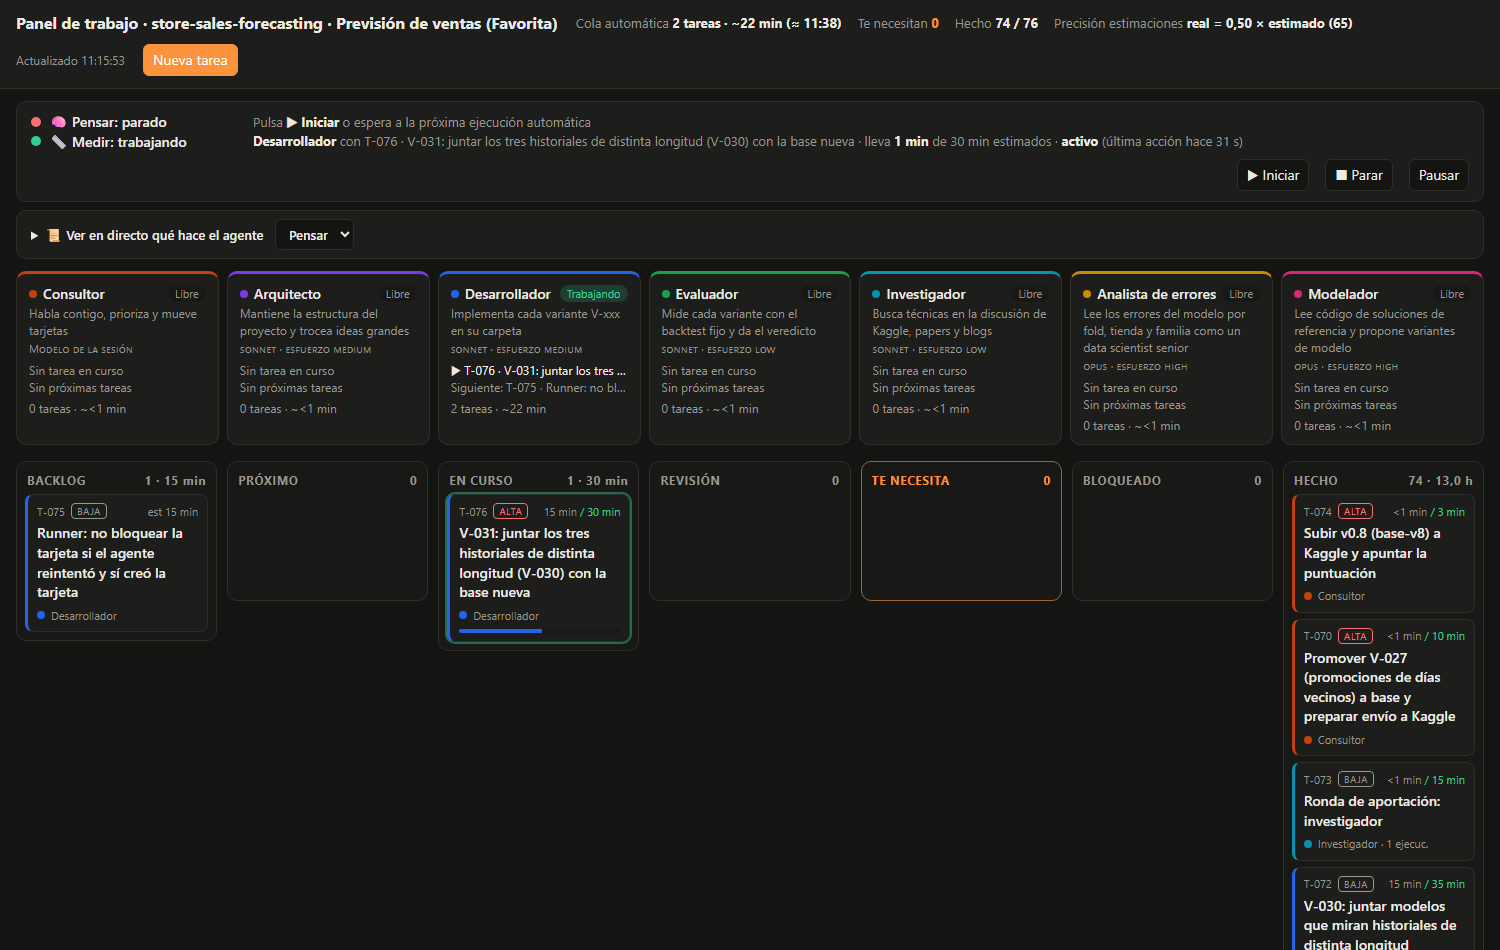
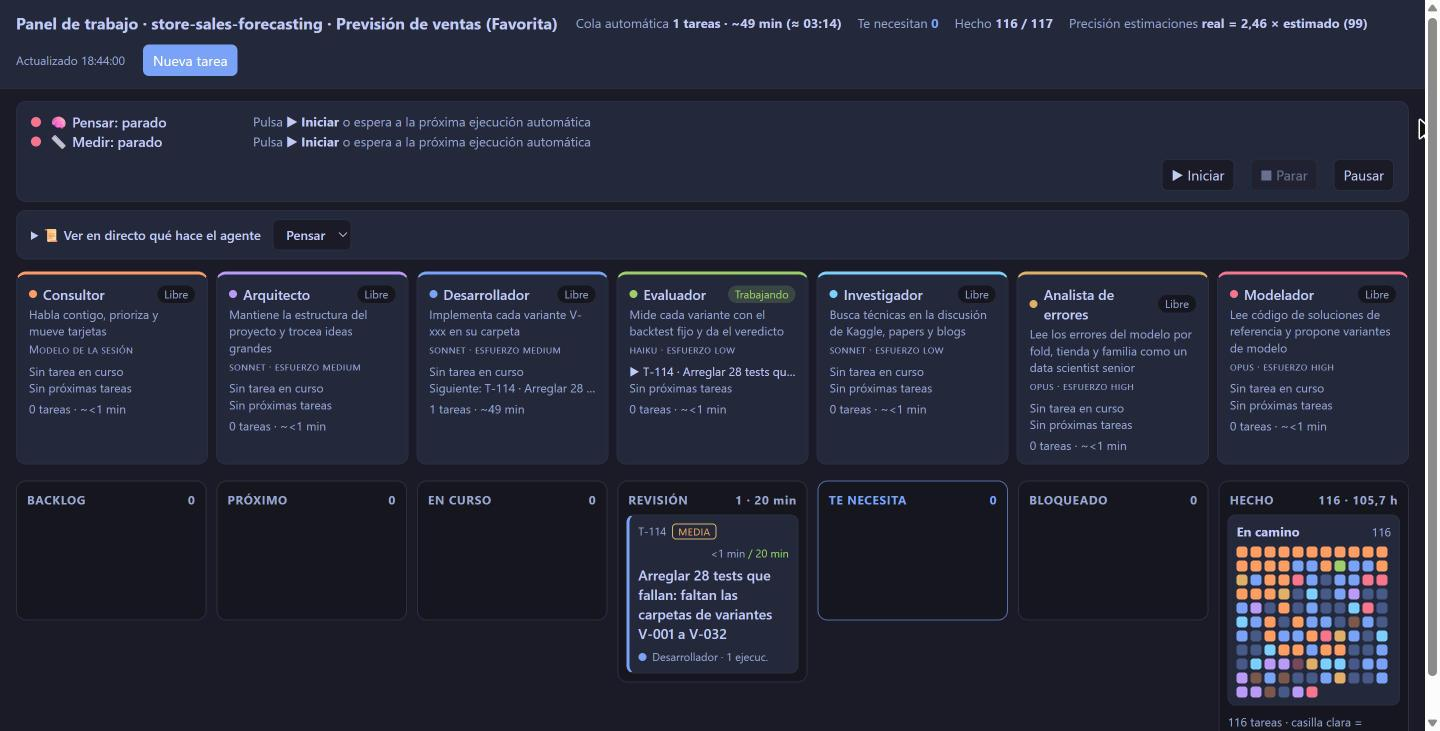
style: switch panel and agent colors to the Tokyo Night palette

diff --git a/board/panel.html b/board/panel.html
@@ -5,8 +5,9 @@
 <meta name="viewport" content="width=device-width,initial-scale=1">
 <title>Panel de trabajo</title>
 <style>
-:root{--bg:#f6f5f2;--panel:#fff;--sunk:#efede8;--ink:#1d1d1b;--muted:#77756f;--line:#e2e0da;--acc:#c2410c;--ok:#059669;--warn:#b45309;--bad:#dc2626}
-@media (prefers-color-scheme:dark){:root{--bg:#141413;--panel:#1d1d1b;--sunk:#181817;--ink:#eceae4;--muted:#9a978f;--line:#2f2e2a;--acc:#fb923c;--ok:#34d399;--warn:#fbbf24;--bad:#f87171}}
+/* Paleta Tokyo Night Day / Tokyo Night (github.com/folke/tokyonight.nvim) */
+:root{--bg:#e1e2e7;--panel:#e9e9ed;--sunk:#d0d5e3;--ink:#3760bf;--muted:#6172b0;--line:#c4c8da;--acc:#2e7de9;--ok:#587539;--warn:#8c6c3e;--bad:#f52a65}
+@media (prefers-color-scheme:dark){:root{--bg:#1a1b26;--panel:#24283b;--sunk:#16161e;--ink:#c0caf5;--muted:#9aa5ce;--line:#292e42;--acc:#7aa2f7;--ok:#9ece6a;--warn:#e0af68;--bad:#f7768e}}
 *{box-sizing:border-box}
 body{margin:0;font:14px/1.4 system-ui,-apple-system,sans-serif;background:var(--bg);color:var(--ink);min-height:100vh;display:flex;flex-direction:column}
 button,select,input,textarea{font:inherit;color:inherit;background:var(--bg);border:1px solid var(--line);border-radius:6px;padding:5px 9px}

diff --git a/README.md b/README.md
@@ -106,7 +106,7 @@ Se arranca de tres maneras: el botón **▶ Iniciar** del panel (trabaja hasta q
 
 | Una tarjeta, escrita para una persona | Lo que hace el agente, en directo |
 |---|---|
-| ![Ficha de una tarjeta: arriba la explicación en lenguaje llano y «Cómo sabremos si funciona», los detalles técnicos plegados, y el historial con tiempos](docs/panel-tarjeta.png) | ![Vista en directo: cada paso del agente con su herramienta y lo que recibe; un comando denegado aparece marcado en rojo](docs/panel-directo.png) |
+| ![Ficha de una tarjeta: arriba la explicación en lenguaje llano y «Cómo sabremos si funciona», los detalles técnicos plegados, y el historial con tiempos](docs/panel-tarjeta.png) | ![Vista en directo: cada paso del agente con su herramienta, lo que recibe y su resumen final](docs/panel-directo.png) |
 
 ### Protocolo de permisos entre agentes
 Los agentes autónomos trabajan con una lista corta de comandos permitidos, y a menudo chocan con algo que necesitan.
